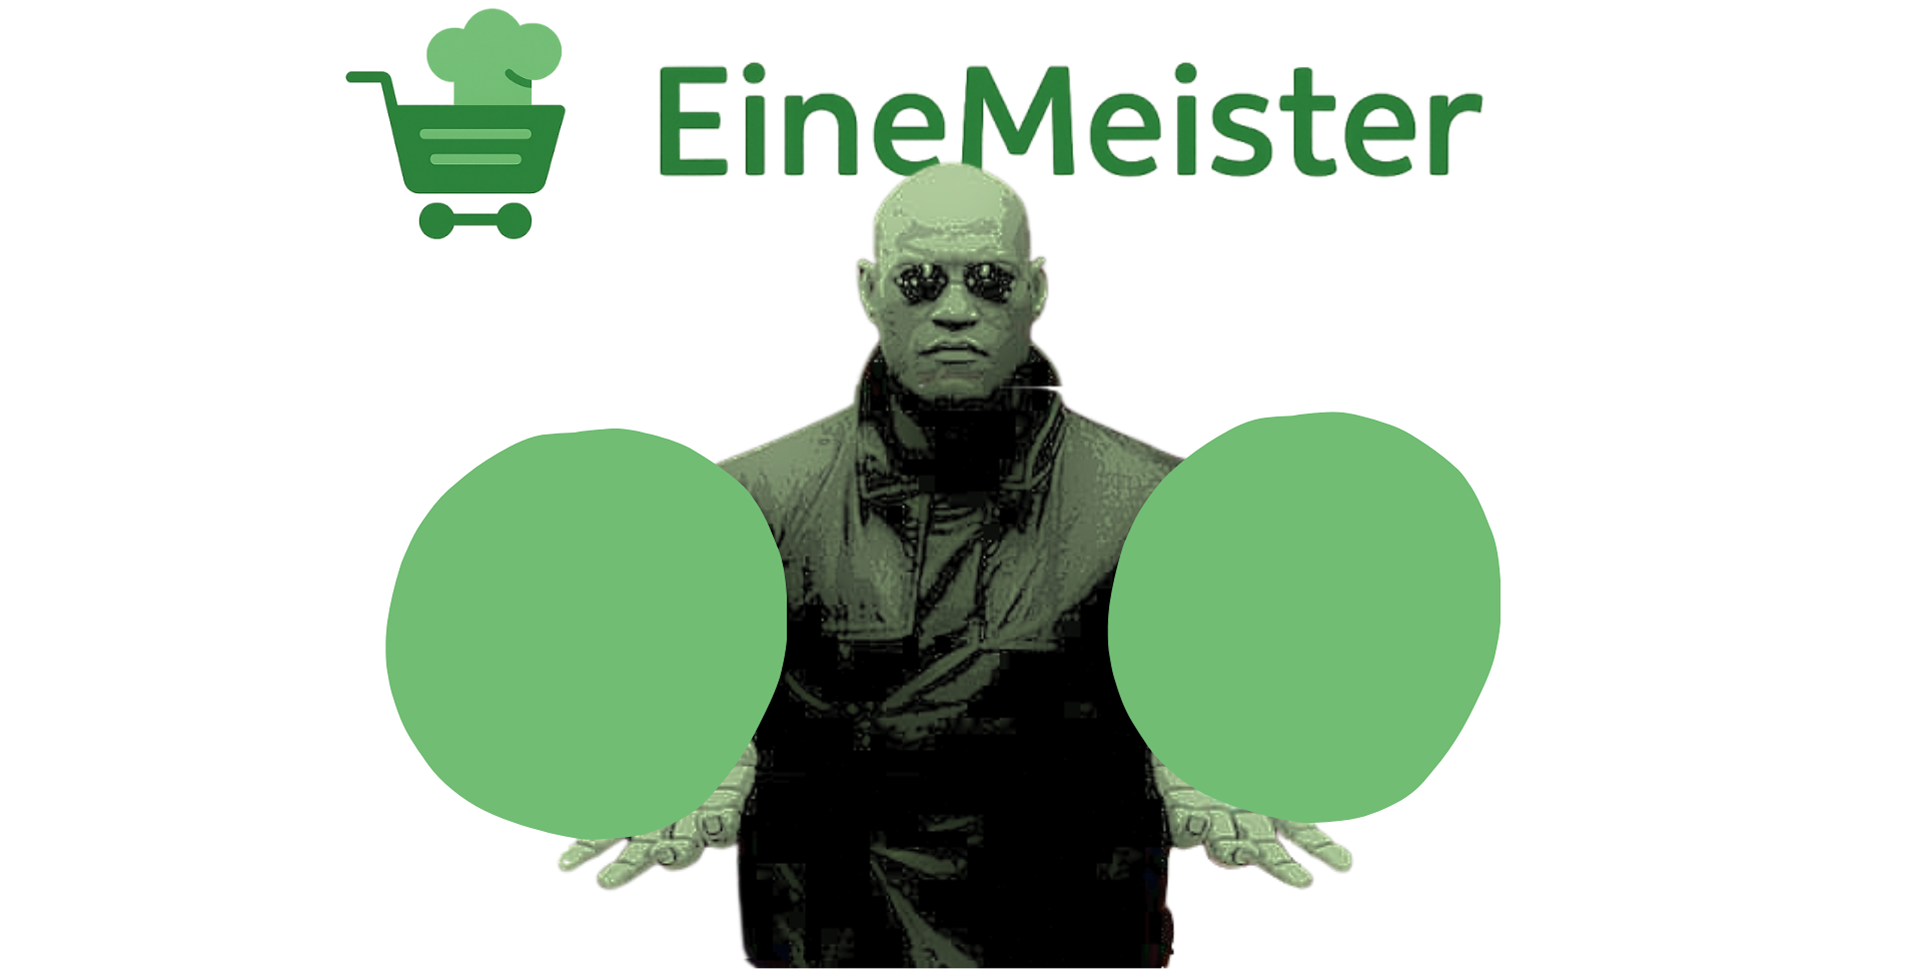
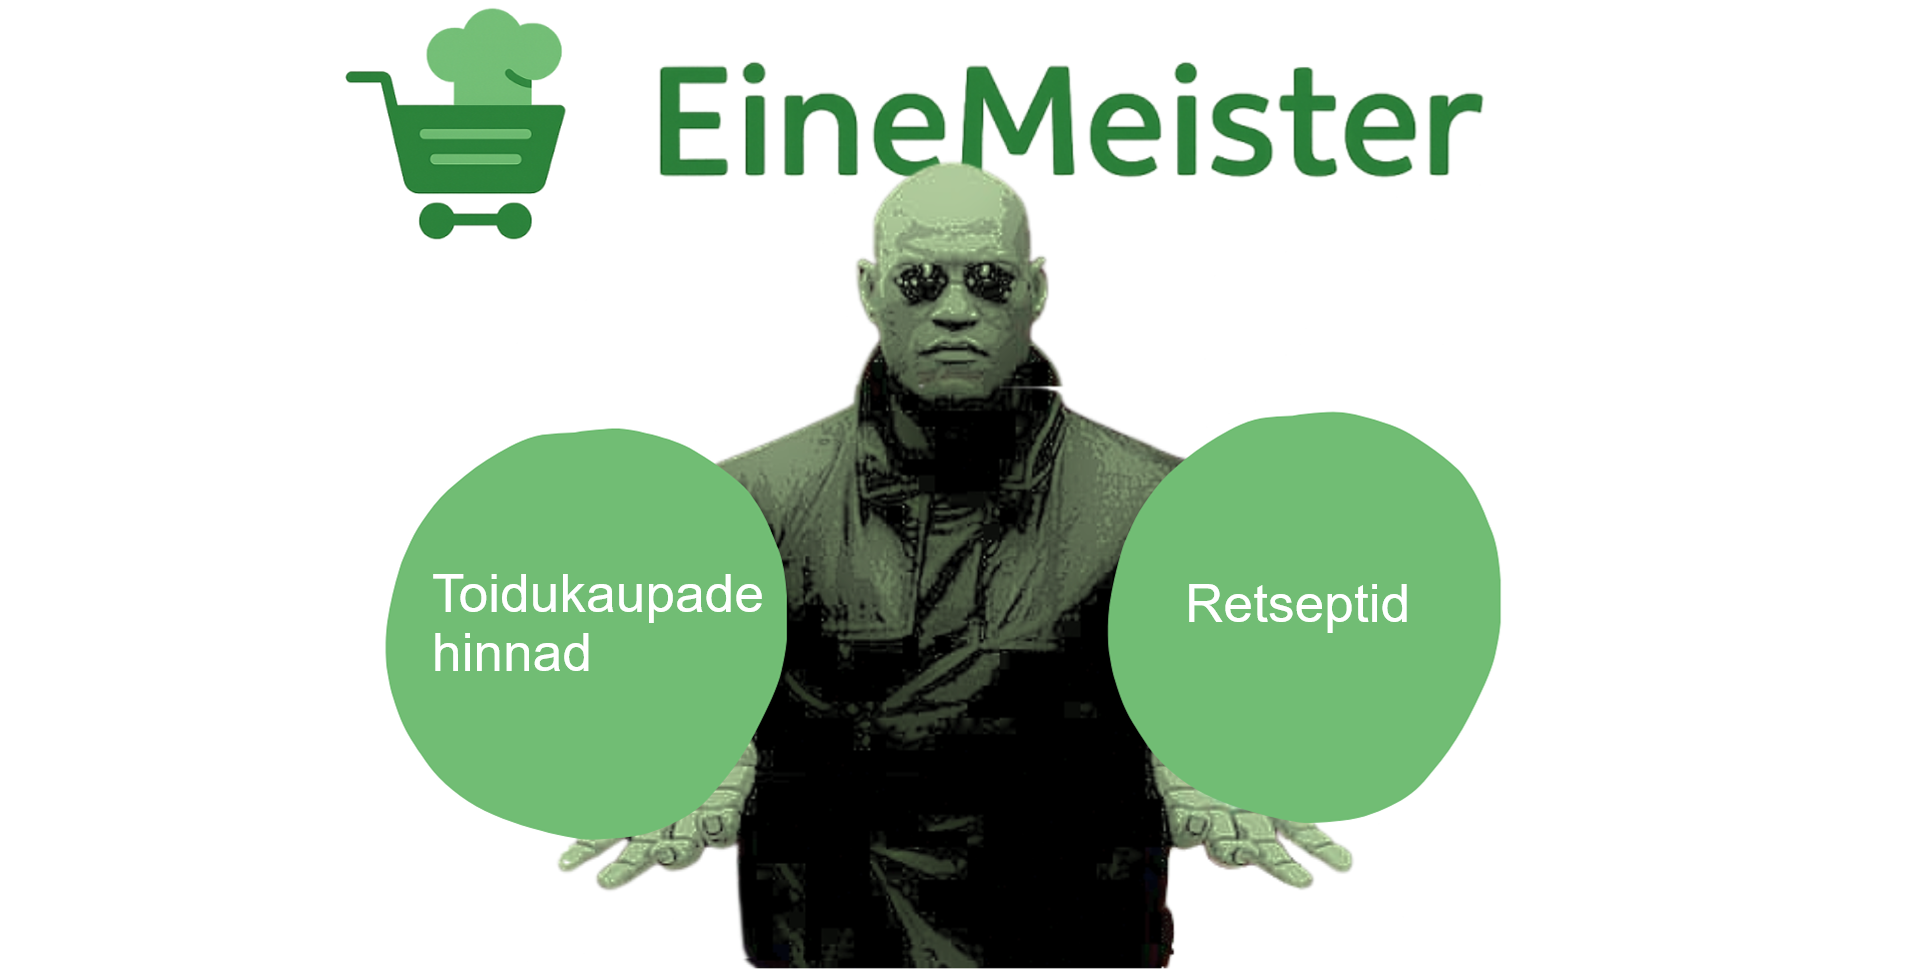
Some kind of fix to the picture and buttons fixed position

diff --git a/css/style.css b/css/style.css
@@ -1,28 +1,26 @@
-
-.toidukaupade-hinnad {
+.pildikonteriner-responsive {
     position: relative;
-    top: 575px;
-    left: 450px;
-    font-size: 50px;
-    width: 325px;
+    width: 100%;
+    margin: 0 auto;
+    display: flex;
+    justify-content: center;
+    align-items: center;
 }
-.toidukaupade-hinnad a{
-    text-decoration: none;
-    color: white;
+.toidukaupade-hinnad {
+    position: absolute;
+    cursor: pointer;
+    width: 40%;
+    height: 38%;
+    top: 45%;
+    left: 5%;
+    background-color: transparent;
 }
 .retseptid {
-    position: relative;
-    top: 480px;
-    left: 1200px;
-    font-size: 50px;
-    width: 200px;
-}
-.retseptid a{
-    text-decoration: none;
-    color: white;
-}
-.hero-img {
-    margin-top: -160px;
-    width: 100%;
-    height: auto;
+    position: absolute;
+    cursor: pointer;
+    width: 40%; 
+    height: 38%;
+    top: 45%;
+    right: 5%;
+    background-color: transparent;
 }

diff --git a/index.html b/index.html
@@ -25,8 +25,10 @@
                 </ul>
             </nav>
         </header>
-            <div class="toidukaupade-hinnad"><a href="pages/product_list">Toidukaupade hinnad</a></div>
-            <div class="retseptid"><a href="#">Retseptid</a></div>
-            <div class="hero-img"><img src="images/einemeisterheropage.png" alt="hero-img"></div>
+        <div class="pildikonteriner-responsive">
+            <a href="pages/product_list.html" class="toidukaupade-hinnad"></a>
+            <a href="#" class="retseptid"></a>
+            <img class="hero-img" src="images/einemeisterheropage.png" alt="Hero Image">
+        </div>
 </body>
 </html>
